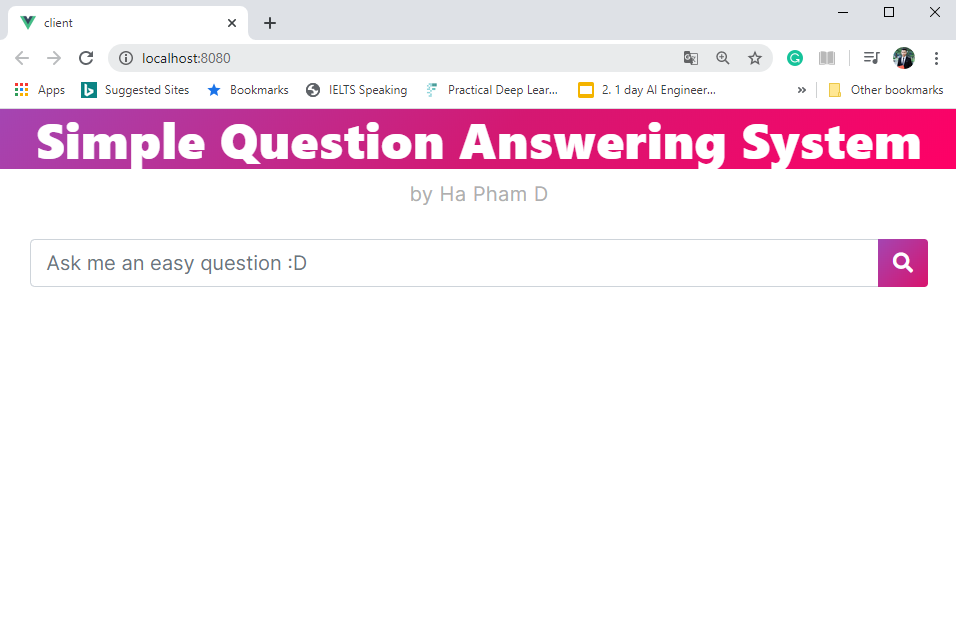
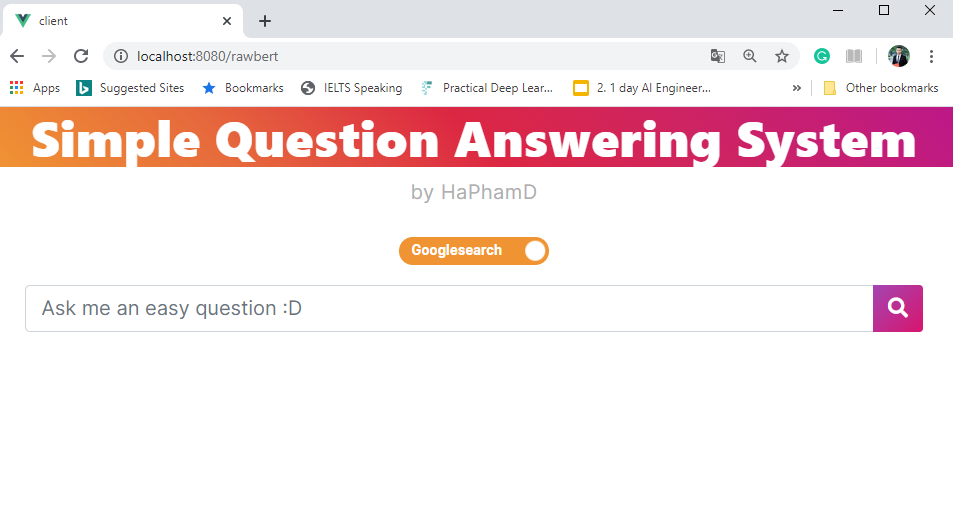
Updat the UI to work with new api
-Change the style, inspired from instagrams
-Add api endpoint for the new api
-Add a new page for using raw bert

diff --git a/web-ui/src/main.js b/web-ui/src/main.js
@@ -1,15 +1,12 @@
 import Vue from 'vue';
+import BootstrapVue from 'bootstrap-vue';
 import App from './App.vue';
 import router from './router';
+import 'bootstrap-vue/dist/bootstrap-vue.css';
+import 'bootstrap/dist/css/bootstrap.css';
 
-import BootstrapVue from "bootstrap-vue"
-
-Vue.use(BootstrapVue)
-
-import "bootstrap/dist/css/bootstrap.css"
-import "bootstrap-vue/dist/bootstrap-vue.css"
-
-Vue.config.productionTip = false
+Vue.use(BootstrapVue);
+Vue.config.productionTip = false;
 
 new Vue({
   router,

diff --git a/web-ui/src/router/index.js b/web-ui/src/router/index.js
@@ -1,12 +1,17 @@
 import Vue from 'vue';
 import VueRouter from 'vue-router';
-import hpqaUI from '../components/hpqaUI.vue'
+import hpqaUI from '../components/hpqaUI.vue';
 
 Vue.use(VueRouter);
 
 const routes = [
   {
     path: '/',
+    name: 'hpqaUI',
+    component: hpqaUI,
+  },
+  {
+    path: '/rawbert',
     name: 'hpqaUI',
     component: hpqaUI,
   },
